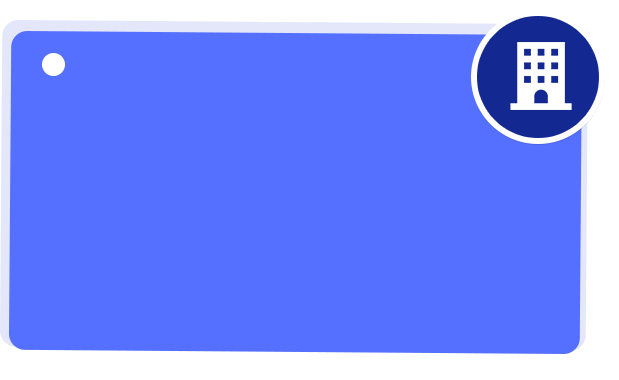
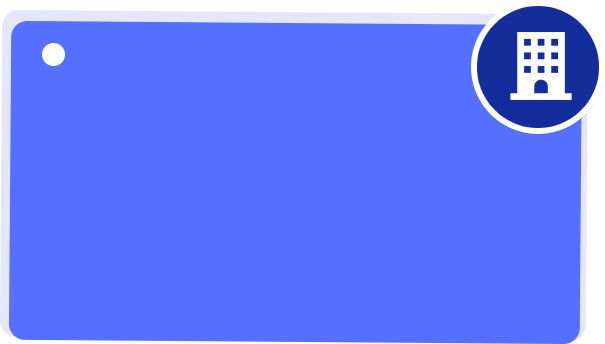
fix: images change, font chanages

Changed region(s): [[0.0, 0.0, 1.0, 1.0], [0.0595, 0.1163, 0.119, 0.2035]]

diff --git a/src/compositions/company-summary/renderFourBlocksInCompanyAtAGlance.js b/src/compositions/company-summary/renderFourBlocksInCompanyAtAGlance.js
@@ -1,110 +1,121 @@
 import { loadImage } from 'canvas';
 import { interpolateKeyframes } from '../../utils/interpolateKeyframes.js';
 
-export async function renderFourBlocksInCompanyAtAGlance(context, width, height, time) {
-    if (time - 1 > 0) {
-        const opacity = interpolateKeyframes(
-          [
-            { time: 0, value: 0 }, // Start fully transparent
-            { time: 1, value: 1 }, // End fully opaque
-          ],
-          time - 1
-        );
-  
-        context.save();
-  
-        context.globalAlpha = opacity;
-  
-        const foundIn = await loadImage('assets/company-summary/founded-in.png');
-        context.drawImage(foundIn, 0, 0, width, height);
-  
-        context.fillStyle = '#FFFFFF';
-        context.font = 'bold 28px Arial';
-        context.fillText('Founded in', 80, 420);
-  
-        context.font = 'bold 44px Arial';
-        context.fillText('1968', 100, 470);
-  
-        context.restore();
-      }
-  
-      if (time - 2 > 0) {
-        const opacity = interpolateKeyframes(
-          [
-            { time: 0, value: 0 }, // Start fully transparent
-            { time: 1, value: 1 }, // End fully opaque
-          ],
-          time - 2
-        );
-  
-        context.save();
-  
-        context.globalAlpha = opacity;
-  
-        const headquarter = await loadImage(
-          'assets/company-summary/headquarter.png'
-        );
-        context.drawImage(headquarter, 0, 0, width, height);
-  
-        context.fillStyle = '#FFFFFF';
-        context.font = 'bold 28px Arial';
-        context.fillText('Headquarters', 330, 540);
-  
-        context.font = 'bold 44px Arial';
-        context.fillText('Mumbai', 350, 590);
-  
-        context.restore();
-      }
-  
-      if (time - 3 > 0) {
-        const opacity = interpolateKeyframes(
-          [
-            { time: 0, value: 0 }, // Start fully transparent
-            { time: 1, value: 1 }, // End fully opaque
-          ],
-          time - 3
-        );
-  
-        context.save();
-  
-        context.globalAlpha = opacity;
-  
-        const employees = await loadImage('assets/company-summary/employees.png');
-        context.drawImage(employees, 0, 0, width, height);
-  
-        context.fillStyle = '#FFFFFF';
-        context.font = 'bold 28px Arial';
-        context.fillText('Employee Count', 100, 720);
-  
-        context.font = 'bold 44px Arial';
-        context.fillText('200-300', 120, 770);
-  
-        context.restore();
-      }
-  
-      if (time - 4 > 0) {
-        const opacity = interpolateKeyframes(
-          [
-            { time: 0, value: 0 }, // Start fully transparent
-            { time: 1, value: 1 }, // End fully opaque
-          ],
-          time - 4
-        );
-  
-        context.save();
-  
-        context.globalAlpha = opacity;
-  
-        const keyFocus = await loadImage('assets/company-summary/key-focus.png');
-        context.drawImage(keyFocus, 0, 0, width, height);
-  
-        context.fillStyle = '#FFF';
-        context.font = 'bold 28px Arial';
-        context.fillText('Key Focus in', 330, 870);
-  
-        context.font = 'bold 44px Arial';
-        context.fillText('Pharmacy', 350, 920);
-  
-        context.restore();
-      }
+export async function renderFourBlocksInCompanyAtAGlance(
+  context,
+  width,
+  height,
+  time
+) {
+  if (time - 1 > 0) {
+    const opacity = interpolateKeyframes(
+      [
+        { time: 0, value: 0 }, // Start fully transparent
+        { time: 1, value: 1 }, // End fully opaque
+      ],
+      time - 1
+    );
+
+    context.save();
+
+    context.globalAlpha = opacity;
+
+    const angle = -(Math.PI / 180) * 3; // Rotate 10 degrees (in radians)
+    context.rotate(angle); // Rotate by the specified angle
+
+    const foundIn = await loadImage('assets/company-summary/founded-in.png');
+    context.drawImage(foundIn, 80, 480, 365, 255);
+
+    context.fillStyle = '#FFFFFF';
+    context.font = '600 40px Arial';
+    context.fillText('Founded in', 120, 610);
+
+    context.font = 'bold 56px Arial';
+    context.fillText('1968', 170, 665);
+
+    context.restore();
+  }
+
+  if (time - 2 > 0) {
+    const opacity = interpolateKeyframes(
+      [
+        { time: 0, value: 0 }, // Start fully transparent
+        { time: 1, value: 1 }, // End fully opaque
+      ],
+      time - 2
+    );
+
+    context.save();
+
+    context.globalAlpha = opacity;
+
+    const headquarter = await loadImage(
+      'assets/company-summary/headquarter.png'
+    );
+    context.drawImage(headquarter, 400, 650, 581, 348);
+
+    context.fillStyle = '#FFFFFF';
+    context.font = '600 40px Arial';
+    context.fillText('Headquarters', 510, 800);
+
+    context.font = 'bold 56px Arial';
+    context.fillText('Mumbai', 530, 855);
+
+    context.restore();
+  }
+
+  if (time - 3 > 0) {
+    const opacity = interpolateKeyframes(
+      [
+        { time: 0, value: 0 }, // Start fully transparent
+        { time: 1, value: 1 }, // End fully opaque
+      ],
+      time - 3
+    );
+
+    context.save();
+
+    context.globalAlpha = opacity;
+
+    const angle = -(Math.PI / 180) * 3; // Rotate 10 degrees (in radians)
+    context.rotate(angle); // Rotate by the specified angle
+
+    const employees = await loadImage('assets/company-summary/employees.png');
+    context.drawImage(employees, 40, 900, 442, 316);
+
+    context.fillStyle = '#FFFFFF';
+    context.font = '600 40px Arial';
+    context.fillText('Employee Count', 100, 1060);
+
+    context.font = 'bold 56px Arial';
+    context.fillText('200-300', 120, 1115);
+
+    context.restore();
+  }
+
+  if (time - 4 > 0) {
+    const opacity = interpolateKeyframes(
+      [
+        { time: 0, value: 0 }, // Start fully transparent
+        { time: 1, value: 1 }, // End fully opaque
+      ],
+      time - 4
+    );
+
+    context.save();
+
+    context.globalAlpha = opacity;
+
+    const keyFocus = await loadImage('assets/company-summary/key-focus.png');
+    context.drawImage(keyFocus, 420, 1100, 605, 344);
+
+    context.fillStyle = '#FFF';
+    context.font = '600 40px Arial';
+    context.fillText('Key Focus in', 530, 1270);
+
+    context.font = 'bold 56px Arial';
+    context.fillText('Pharmacy', 520, 1325);
+
+    context.restore();
+  }
 }

diff --git a/src/compositions/company-summary/renderAnimatedBlockLeftToRight.js b/src/compositions/company-summary/renderAnimatedBlockLeftToRight.js
@@ -8,14 +8,8 @@ export async function renderAnimatedBlockLeftToRight(
   time,
   companyName
 ) {
-  // Define canvas dimensions
-  const logoContainerSize = 170;
-
-  const padding = 20; // Padding around the box
-  const gap = 20; // Space between image and text
-
-  const parentBoxWidth = 600;
-  const parentBoxHeight = logoContainerSize + 2 * padding;
+  const parentBoxWidth = 905;
+  const parentBoxHeight = 374;
 
   const translateX = (width - parentBoxWidth) / 2;
 
@@ -33,21 +27,18 @@ export async function renderAnimatedBlockLeftToRight(
   );
 
   const boxY = 200;
+  const starHeight = 40;
+
+  const logoContainerWidth = 320, logoContainerHeight =  276;
+
+  const paddingTb = 52, paddingLr = 42; // Padding around the box
+  const gap = 20; // Space between image and text
 
   // Parent container box
-  context.fillStyle = '#5670FB';
-  drawRoundedRect(context, t, boxY, parentBoxWidth, parentBoxHeight, 16);
-
-  // Add white background container for logo of 100 x 100
-  context.fillStyle = '#FFFFFF';
-  drawRoundedRect(
-    context,
-    t + padding,
-    boxY + padding,
-    logoContainerSize,
-    logoContainerSize,
-    16
+  const logoPlaceholder = await loadImage(
+    `assets/company-summary/logo-placeholder.png`
   );
+  context.drawImage(logoPlaceholder, t, boxY, parentBoxWidth, parentBoxHeight);
 
   const companyLogo = await loadImage(
     'assets/company-summary/logo-rgb-black.png'
@@ -56,39 +47,39 @@ export async function renderAnimatedBlockLeftToRight(
   /**  Position image in center of the box */
   // Calculate aspect ratios
   const imgAspectRatio = companyLogo.width / companyLogo.height;
-  const boxAspectRatio = logoContainerSize / logoContainerSize;
+  const boxAspectRatio = logoContainerWidth / logoContainerHeight;
 
   // Determine dimensions to fit the image within the box (contain)
   let drawWidth, drawHeight;
   if (imgAspectRatio > boxAspectRatio) {
     // Image is wider than the box, fit width and adjust height
-    drawWidth = logoContainerSize;
-    drawHeight = logoContainerSize / imgAspectRatio;
+    drawWidth = logoContainerWidth;
+    drawHeight = logoContainerHeight / imgAspectRatio;
   } else {
     // Image is taller than or equal in aspect ratio to the box, fit height and adjust width
-    drawHeight = logoContainerSize;
-    drawWidth = logoContainerSize * imgAspectRatio;
+    drawHeight = logoContainerHeight;
+    drawWidth = logoContainerWidth * imgAspectRatio;
   }
 
   // Calculate the position to center the image in the box
-  const offsetX = (logoContainerSize - drawWidth) / 2;
-  const offsetY = (logoContainerSize - drawHeight) / 2;
+  const offsetX = (logoContainerWidth - drawWidth) / 2;
+  const offsetY = (logoContainerHeight - drawHeight) / 2;
 
   // Draw the image to fit within the box with centering
   context.drawImage(
     companyLogo,
-    t + padding + offsetX,
-    boxY + padding + offsetY,
+    t + paddingLr + offsetX,
+    boxY + paddingTb + offsetY + starHeight,
     drawWidth,
     drawHeight
   );
 
   // Draw text on the right side of the image
-  context.font = 'bold 56px Arial';
+  context.font = 'bold 72px Arial';
   context.fillStyle = '#FFFFFF';
 
-  const textX = t + padding + logoContainerSize + gap; // Position text after the image
-  const textY = boxY + padding + logoContainerSize / 2; // Center text vertically with the image
+  const textX = t + paddingLr + logoContainerWidth + gap; // Position text after the image
+  const textY = boxY + paddingTb + logoContainerHeight / 2 + starHeight; // Center text vertically with the image
 
   context.textBaseline = 'middle';
   context.fillText(companyName, textX, textY);

diff --git a/src/compositions/company-summary/renderAmbitionBranding.js b/src/compositions/company-summary/renderAmbitionBranding.js
@@ -16,22 +16,14 @@ export async function renderAmbitionBranding(context, width, time) {
 
   context.globalAlpha = opacity;
 
-  const poweredBy = 'Powered by';
-  context.font = '20px Arial';
-  const poweredByMetrics = context.measureText('Powered by');
-  const poweredByWidth = poweredByMetrics.width;
-  const poweredByHeight =
-    poweredByMetrics.actualBoundingBoxAscent +
-    poweredByMetrics.actualBoundingBoxDescent;
-
-  context.fillStyle = '#000';
-  context.fillText(poweredBy, (width - poweredByWidth) / 2, 1000);
+  const logoWidth = 473 * 0.75;
+  const logoHeight = 150 * 0.75;
 
   context.drawImage(
     ambitionboxLogo,
-    (width - 166) / 2,
-    1000 + poweredByHeight,
-    166,
-    43
+    (width - logoWidth) / 2,
+    1640,
+    logoWidth,
+    logoHeight
   );
 }

diff --git a/src/compositions/company-summary/scene1.js b/src/compositions/company-summary/scene1.js
@@ -18,27 +18,23 @@ export async function scene1(context, width, height, time, scene1Bg, companyName
 
     await renderAnimatedBlockLeftToRight(context, width, time, companyName);
 
-    context.font = 'bold 68px Arial';
+    context.font = 'bold 80px Arial';
 
     renderAnimatedTextDownToUp(
       context,
       'IS THIS THE RIGHT',
       '#5670FB',
       (width - context.measureText('IS THIS THE RIGHT').width) / 2,
-      600,
+      770,
       time,
-      0,
-      1.5
     );
     renderAnimatedTextDownToUp(
       context,
       'FIT FOR YOU?',
       '#5670FB',
       (width - context.measureText('FIT FOR YOU?').width) / 2 + 30,
-      680,
+      850,
       time,
-      0,
-      1.5
     );
 
     // context.font = "40px Arial";

diff --git a/src/index.js b/src/index.js
@@ -8,8 +8,8 @@ import {createCompanySummaryVideo} from './compositions/company-summary/index.js
 ffmpeg.setFfmpegPath(ffmpegStatic);
 
 // Canvas dimensions
-const width = 720;
-const height = 1280;
+const width = 1080;
+const height = 1920;
 
 const canvas = new Canvas(width, height);
 const context = canvas.getContext("2d");
